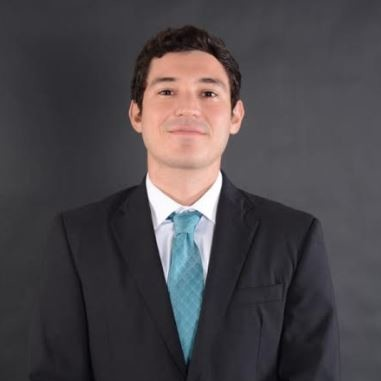
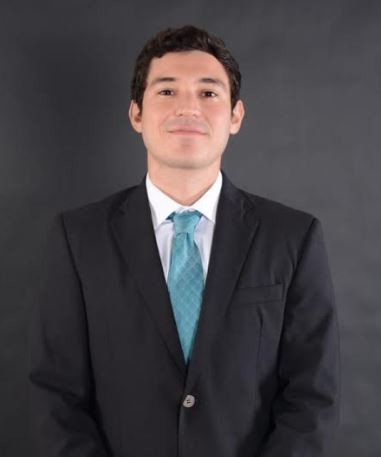
still missing mobile

diff --git a/index.html b/index.html
@@ -61,7 +61,7 @@
             <span class="arrow icon solid fa-chevron-right"
               ><span>See my projects!</span></span
             >
-            <img src="images/me.jpg" alt="" />
+            <img src="images/me.png" alt="" />
           </a>
         </article>
 
@@ -294,7 +294,7 @@
       <!-- Footer -->
       <div id="footer">
         <ul class="copyright">
-          <li>&copy; Oliver Almaguer.</li>
+          <li>&copy; Oliver Almaguer</li>
         </ul>
       </div>
     </div>
